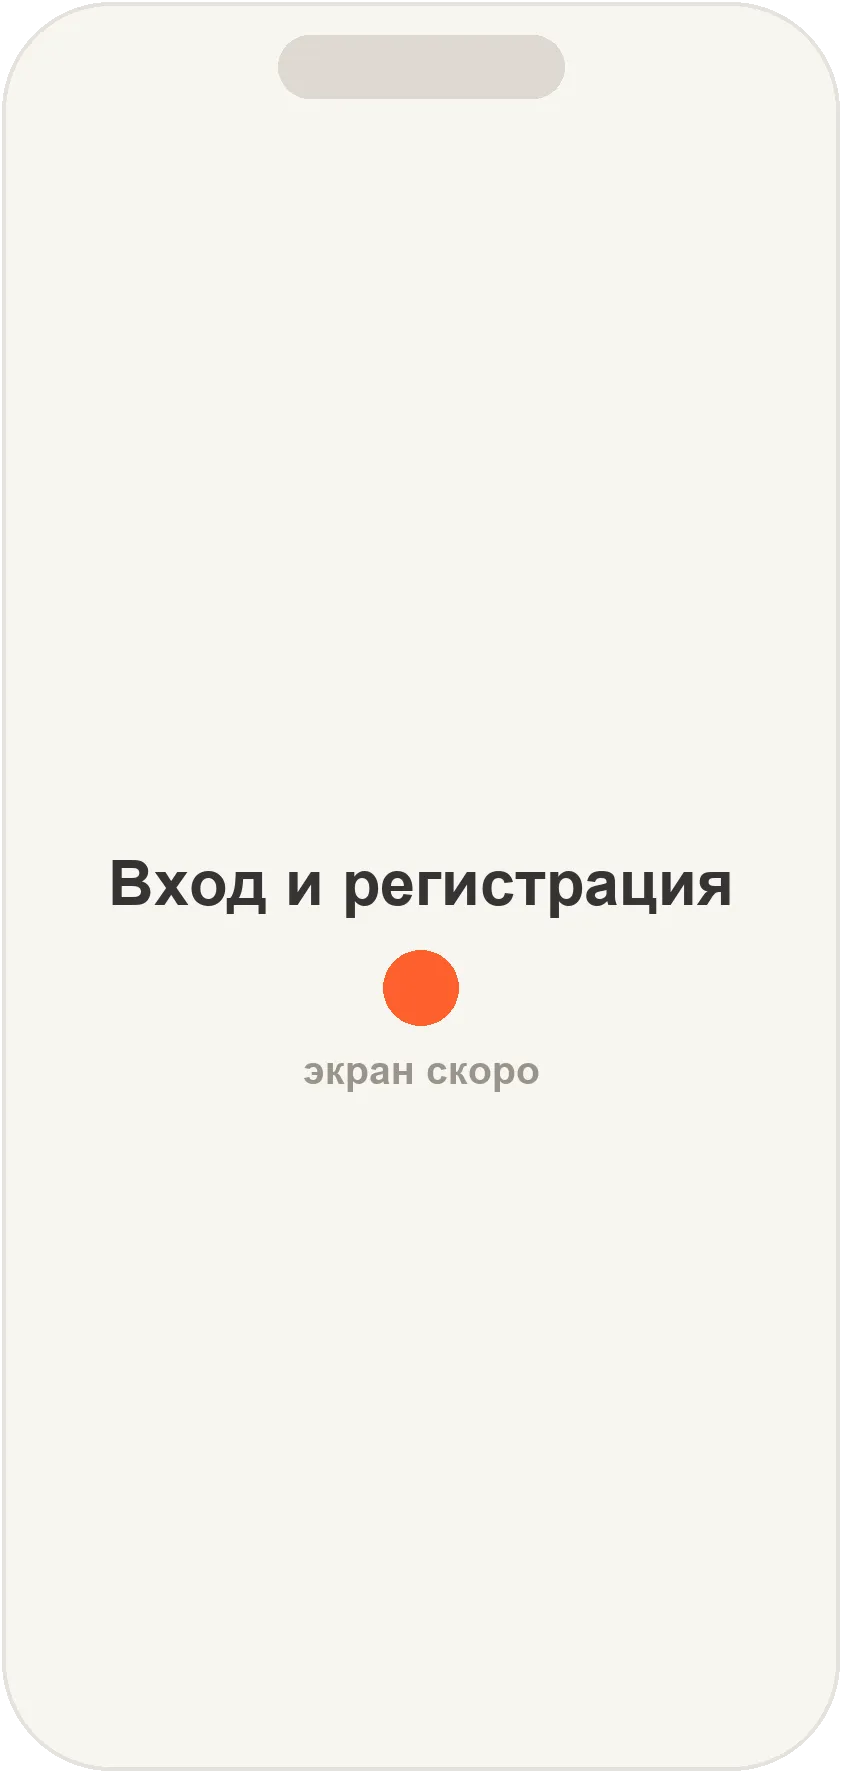
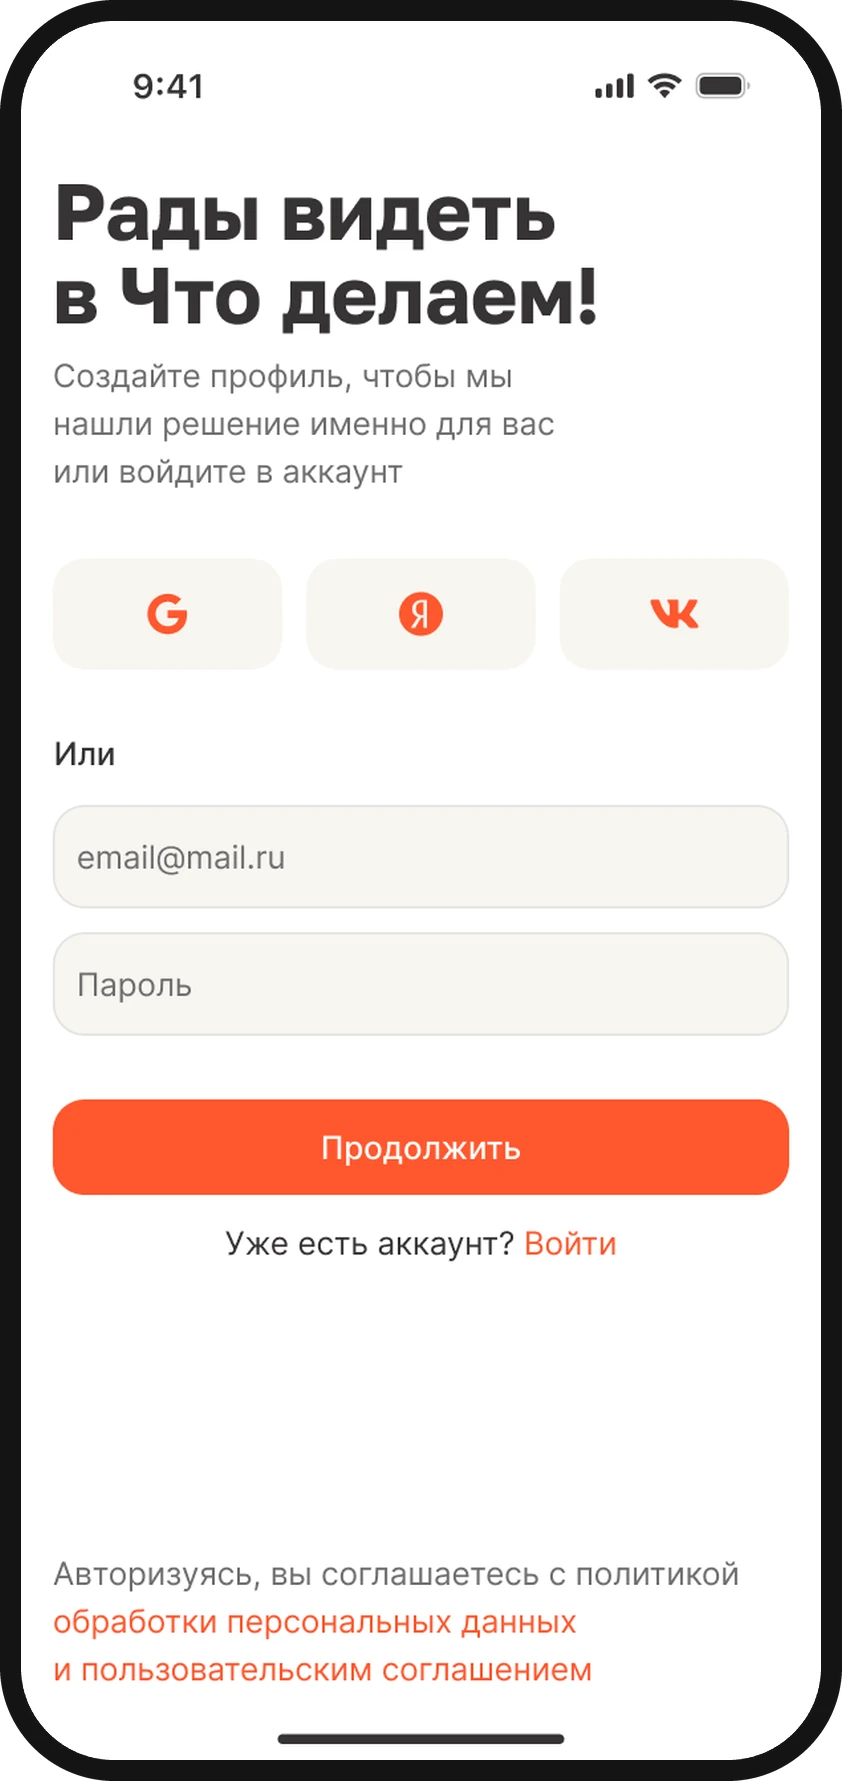
ЧД (case-page-4): реальные экраны онбординга вместо плейсхолдеров
Блок 01 «Онбординг»: регистрация (статик) → «Что любите?» (видео, запечено
через encode_video) → главная после онбординга (статик). Статики запечены
в корпус через bake_still (842×1781), видео chd-onb-interests.mp4 (590×1242,
autoplay/muted/loop + IntersectionObserver). Удалены плейсхолдеры
chd-onb-interests.webp и chd-onb-friends.webp. Текст блока обновлён под
показанные экраны (прогресс точности 10%→45%, приход на главную).

diff --git a/index.html b/index.html
@@ -1547,13 +1547,13 @@ footer{padding:28px 56px 44px;display:flex;justify-content:space-between;align-i
   <div class="cs-block">
     <div class="rf-triptych">
       <img src="assets/chd-onb-signup.webp" onclick="openCsModal(this)" alt="Вход и регистрация" loading="lazy">
-      <img src="assets/chd-onb-interests.webp" onclick="openCsModal(this)" alt="Выбор интересов" loading="lazy">
-      <img src="assets/chd-onb-friends.webp" onclick="openCsModal(this)" alt="Приглашение друзей" loading="lazy">
+      <video src="assets/chd-onb-interests.mp4" autoplay muted loop playsinline aria-label="Выбор интересов"></video>
+      <img src="assets/chd-onb-home.webp" onclick="openCsModal(this)" alt="Главный экран после онбординга" loading="lazy">
     </div>
     <div class="cs-sticky">
       <div class="cs-num">01 — Онбординг</div>
       <h3 class="cs-h3">Анкета и&nbsp;друзья за&nbsp;пару тапов поднимают точность подборки ещё до&nbsp;первой встречи</h3>
-      <p class="cs-sdesc">Вход через привычные сервисы, короткая анкета интересов и&nbsp;приглашение друзей. Прогресс-бар показывает, как каждый шаг повышает точность подборки, поэтому заполнять профиль хочется. К&nbsp;первому экрану человек приходит уже с&nbsp;настроенным контекстом, а&nbsp;не&nbsp;с&nbsp;пустым сервисом.</p>
+      <p class="cs-sdesc">Вход через привычные сервисы, анкета интересов и&nbsp;приглашение друзей. Прогресс-бар наглядно показывает, как точность подборки растёт с&nbsp;10% до&nbsp;45%, поэтому заполнять профиль хочется. К&nbsp;главному экрану человек приходит уже с&nbsp;настроенным контекстом, а&nbsp;не&nbsp;с&nbsp;пустым сервисом.</p>
       <div class="cs-tags"><span class="cs-tag">Onboarding</span><span class="cs-tag">Interests</span><span class="cs-tag">Invite</span></div>
     </div>
   </div>
